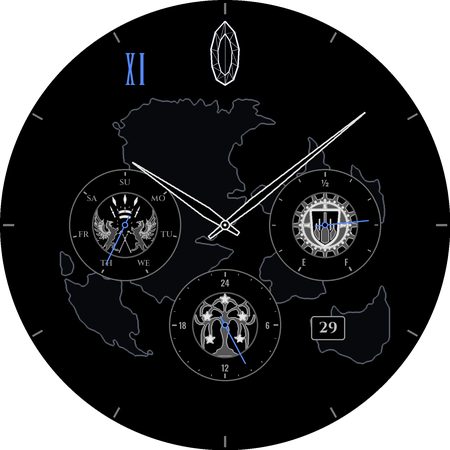
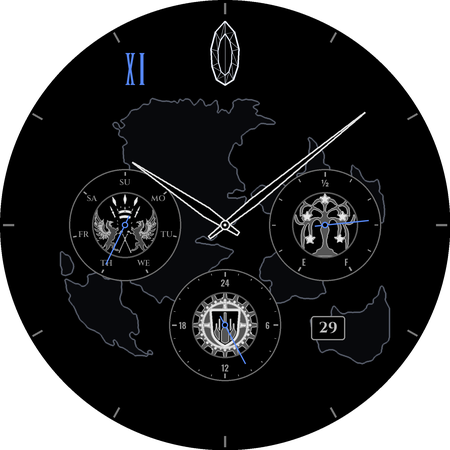
Watch face: same sub-dial order in every style
Classic and Dark now follow Light and the real watch: San d'Oria at 9
(day of week), Bastok at 6 (24-hour), Windurst at 3 (battery). One LAYOUT
drives all styles; XML sub-dial hands are named by position.

Claude-Session: https://claude.ai/code/session_01DhcV9kAg7FMXufVfZQP7Ta

Changed region(s): [[0.6533, 0.4356, 0.8089, 0.5911], [0.4356, 0.6533, 0.5911, 0.8089]]

diff --git a/ffxi-watchface/tools/generate_assets.py b/ffxi-watchface/tools/generate_assets.py
@@ -31,6 +31,10 @@ SUB_R = 56         # sub-dial radius
 EMBLEM_R = 33      # crest medallion radius inside each sub-dial
 DATE_POS = (225 + 103, 225 + 103)  # date window centre (4:30)
 DATE_SIZE = (34, 24)
+# Sub-dials, as on the real watch: San d'Oria at 9, Bastok at 6, Windurst at 3.
+POSITIONS = {'left': (225 - SUB_OFFSET, 225), 'right': (225 + SUB_OFFSET, 225), 'bottom': (225, 225 + SUB_OFFSET)}
+POSITION_SCALE = {'left': 'days', 'right': 'battery', 'bottom': '24h'}
+LAYOUT = {'left': 'sandoria', 'bottom': 'bastok', 'right': 'windurst'}
 
 NAVY_IN, NAVY_OUT = (30, 48, 84), (6, 11, 24)
 # Nation colours: San d'Oria red, Bastok blue, Windurst green
@@ -279,11 +283,12 @@ def place_crystal(img, ambient, bright=1.0):
 
 # --------------------------------------------------------------------- dial
 def sub_centers():
-    return {
-        'sandoria': (225 - SUB_OFFSET, 225),   # 9 o'clock: day of week
-        'bastok': (225 + SUB_OFFSET, 225),     # 3 o'clock: battery
-        'windurst': (225, 225 + SUB_OFFSET),   # 6 o'clock: 24 hour
-    }
+    """Sub-dial centre per nation, from LAYOUT (same in every style, as on the real watch)."""
+    return {key: POSITIONS[pos] for pos, key in LAYOUT.items()}
+
+
+def position_of(key):
+    return next(pos for pos, k in LAYOUT.items() if k == key)
 
 
 def crest_masks(key, a):
@@ -379,11 +384,7 @@ def draw_subdial(img, key, ambient=False, bright=1.0):
     draw_emblem(img, key, cx, cy, ambient, bright)
     d = ImageDraw.Draw(img)
 
-    draw_scale(d, SCALE_OF[key], cx, cy, R, fg)
-
-
-# Which scale each nation's sub-dial carries in Classic / Dark (by position).
-SCALE_OF = {'sandoria': 'days', 'bastok': 'battery', 'windurst': '24h'}
+    draw_scale(d, POSITION_SCALE[position_of(key)], cx, cy, R, fg)
 
 
 def draw_scale(d, kind, cx, cy, R, fg):
@@ -505,10 +506,7 @@ def make_dial(ambient=False, bright=0.6):
 # --------------------------------------------------------------------- light style
 # After the real Seiko piece: silver-white dial with a faint Vana'diel world map,
 # blue inner ring, applied lume batons, white sub-dials with printed crests and
-# nation-coloured rings and hands. Sub-dial positions follow the real watch.
-POSITIONS = {'left': (225 - SUB_OFFSET, 225), 'right': (225 + SUB_OFFSET, 225), 'bottom': (225, 225 + SUB_OFFSET)}
-POSITION_SCALE = {'left': 'days', 'right': 'battery', 'bottom': '24h'}
-LIGHT_LAYOUT = {'left': 'sandoria', 'right': 'windurst', 'bottom': 'bastok'}
+# nation-coloured rings and hands.
 NATION_INK = {'sandoria': (196, 32, 44), 'windurst': (40, 150, 70), 'bastok': (40, 70, 190)}
 LIGHT_BLUE_RING = ((24, 40, 104), (66, 96, 178))
 
@@ -566,7 +564,7 @@ def light_crest(key, size):
 
 
 def light_subdial(img, pos):
-    key = LIGHT_LAYOUT[pos]
+    key = LAYOUT[pos]
     cx, cy = (s(v) for v in POSITIONS[pos])
     R = s(SUB_R)
     g = radial_gradient((2 * R, 2 * R), (252, 252, 253), (232, 234, 238))
@@ -864,12 +862,12 @@ def patch_xml():
     for sfx in ('', '_dark'):
         setattrs(rf'<HourHand resource="hand_hour{sfx}" [^>]*>', 225, 225, 'hand_hour' + sfx)
         setattrs(rf'<MinuteHand resource="hand_minute{sfx}" [^>]*>', 225, 225, 'hand_minute' + sfx)
-        for key, (cx, cy) in sub_centers().items():
-            setattrs(rf'<PartImage name="sub_{key}{sfx}" [^>]*>', cx, cy, 'hand_sub' + sfx)
+        for pos, (cx, cy) in POSITIONS.items():
+            setattrs(rf'<PartImage name="sub_{pos}{sfx}" [^>]*>', cx, cy, 'hand_sub' + sfx)
     setattrs(r'<HourHand resource="hand_hour_light" [^>]*>', 225, 225, 'hand_hour_light')
     setattrs(r'<MinuteHand resource="hand_minute_light" [^>]*>', 225, 225, 'hand_minute_light')
     for pos, (cx, cy) in POSITIONS.items():
-        setattrs(rf'<PartImage name="sub_{pos}_light" [^>]*>', cx, cy, LIGHT_NEEDLE[LIGHT_LAYOUT[pos]])
+        setattrs(rf'<PartImage name="sub_{pos}_light" [^>]*>', cx, cy, LIGHT_NEEDLE[LAYOUT[pos]])
     for name, (_, half) in CAPS.items():
         xml, n = re.subn(rf'(<PartImage name="{name}" )[^>]*>',
                          rf'\g<1>x="{225 - half:g}" y="{225 - half:g}" width="{2 * half:g}" height="{2 * half:g}">', xml)
@@ -905,10 +903,9 @@ def preview(dial_hi, hands_hi, caps_hi, glass_hi, hh=10, mm=8, ss=32, dow=5, day
     sfx = '_dark' if dark else ''
     cap_hi = caps_hi['cap' + sfx]
     sub = hands_hi['hand_sub' + sfx]
-    centers = sub_centers()
-    place(img, sub, 'hand_sub' + sfx, *centers['sandoria'], (dow - 1) * 360 / 7)
-    place(img, sub, 'hand_sub' + sfx, *centers['bastok'], -150 + batt * 3)
-    place(img, sub, 'hand_sub' + sfx, *centers['windurst'], (hh + mm / 60) * 15)
+    angle = {'left': (dow - 1) * 360 / 7, 'right': -150 + batt * 3, 'bottom': (hh + mm / 60) * 15}
+    for pos, (cx, cy) in POSITIONS.items():
+        place(img, sub, 'hand_sub' + sfx, cx, cy, angle[pos])
     if not ambient or dark:
         d = ImageDraw.Draw(img)
         text_c(d, (s(DATE_POS[0]), s(DATE_POS[1])), str(day), font(FONT_SERIF, 15),
@@ -925,7 +922,7 @@ def preview_light(dial_hi, hands_hi, caps_hi, glass_hi, hh=10, mm=8, dow=5, day=
     img = dial_hi.copy()
     angle = {'left': (dow - 1) * 360 / 7, 'right': -150 + batt * 3, 'bottom': (hh + mm / 60) * 15}
     for pos, (cx, cy) in POSITIONS.items():
-        name = LIGHT_NEEDLE[LIGHT_LAYOUT[pos]]
+        name = LIGHT_NEEDLE[LAYOUT[pos]]
         place(img, hands_hi[name], name, cx, cy, angle[pos])
     text_c(ImageDraw.Draw(img), (s(DATE_POS[0]), s(DATE_POS[1])), str(day), font(FONT_SERIF, 15), (20, 20, 20))
     place(img, hands_hi['hand_hour_light'], 'hand_hour_light', 225, 225, (hh % 12 + mm / 60) * 30)
